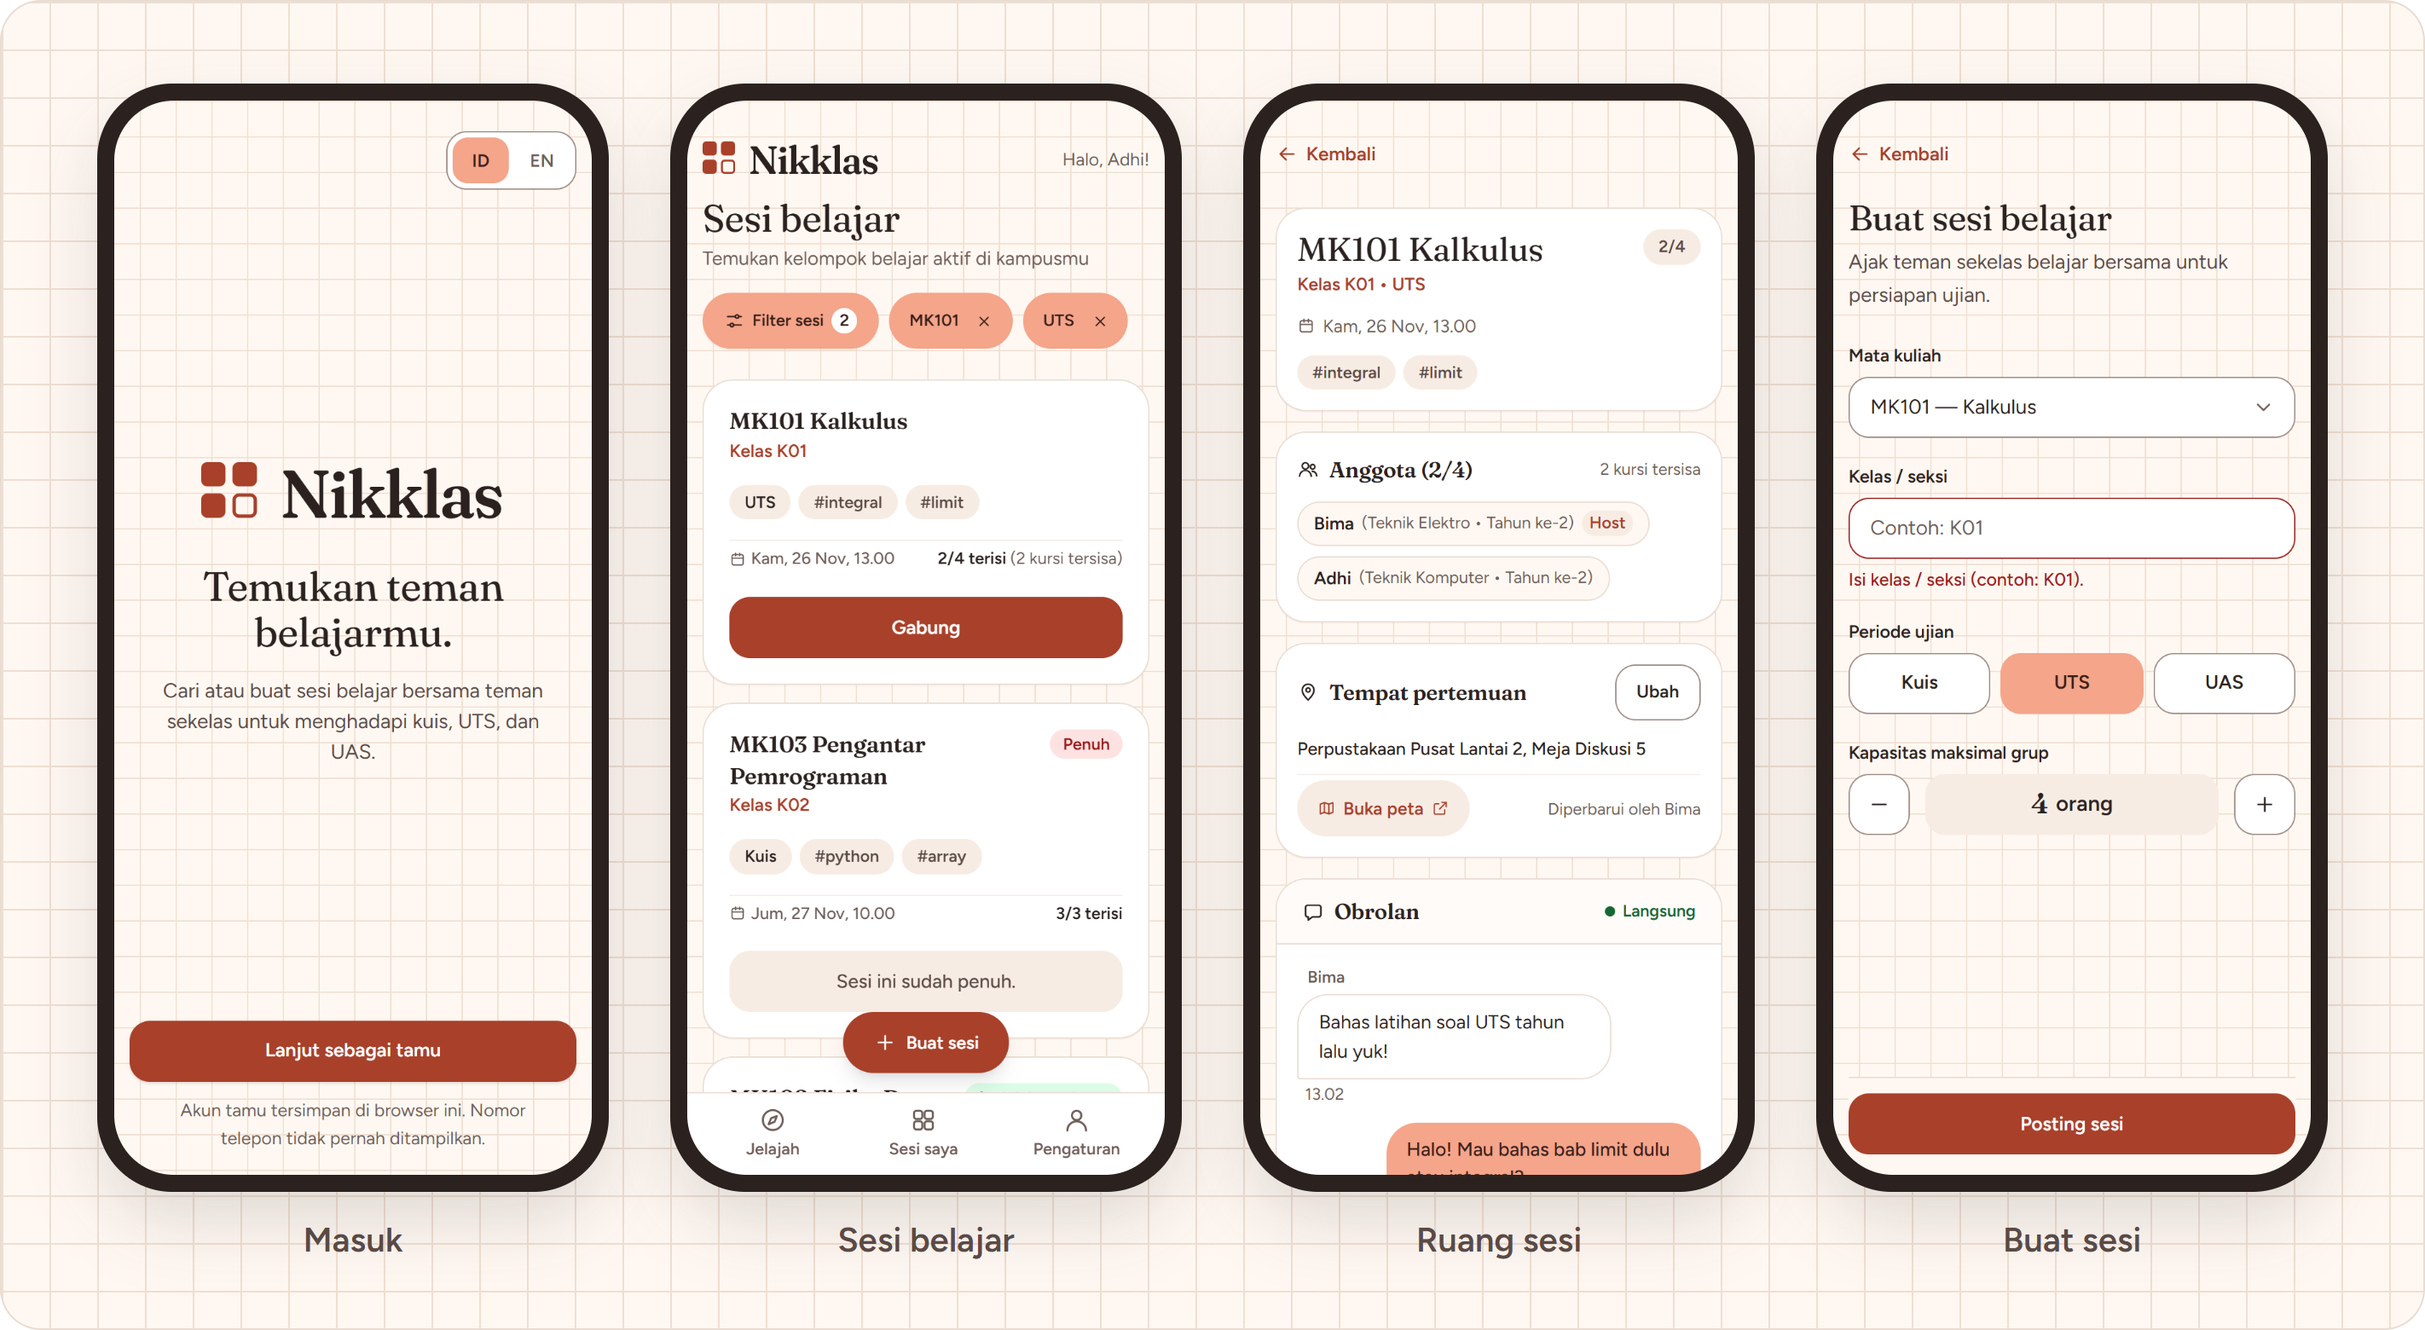
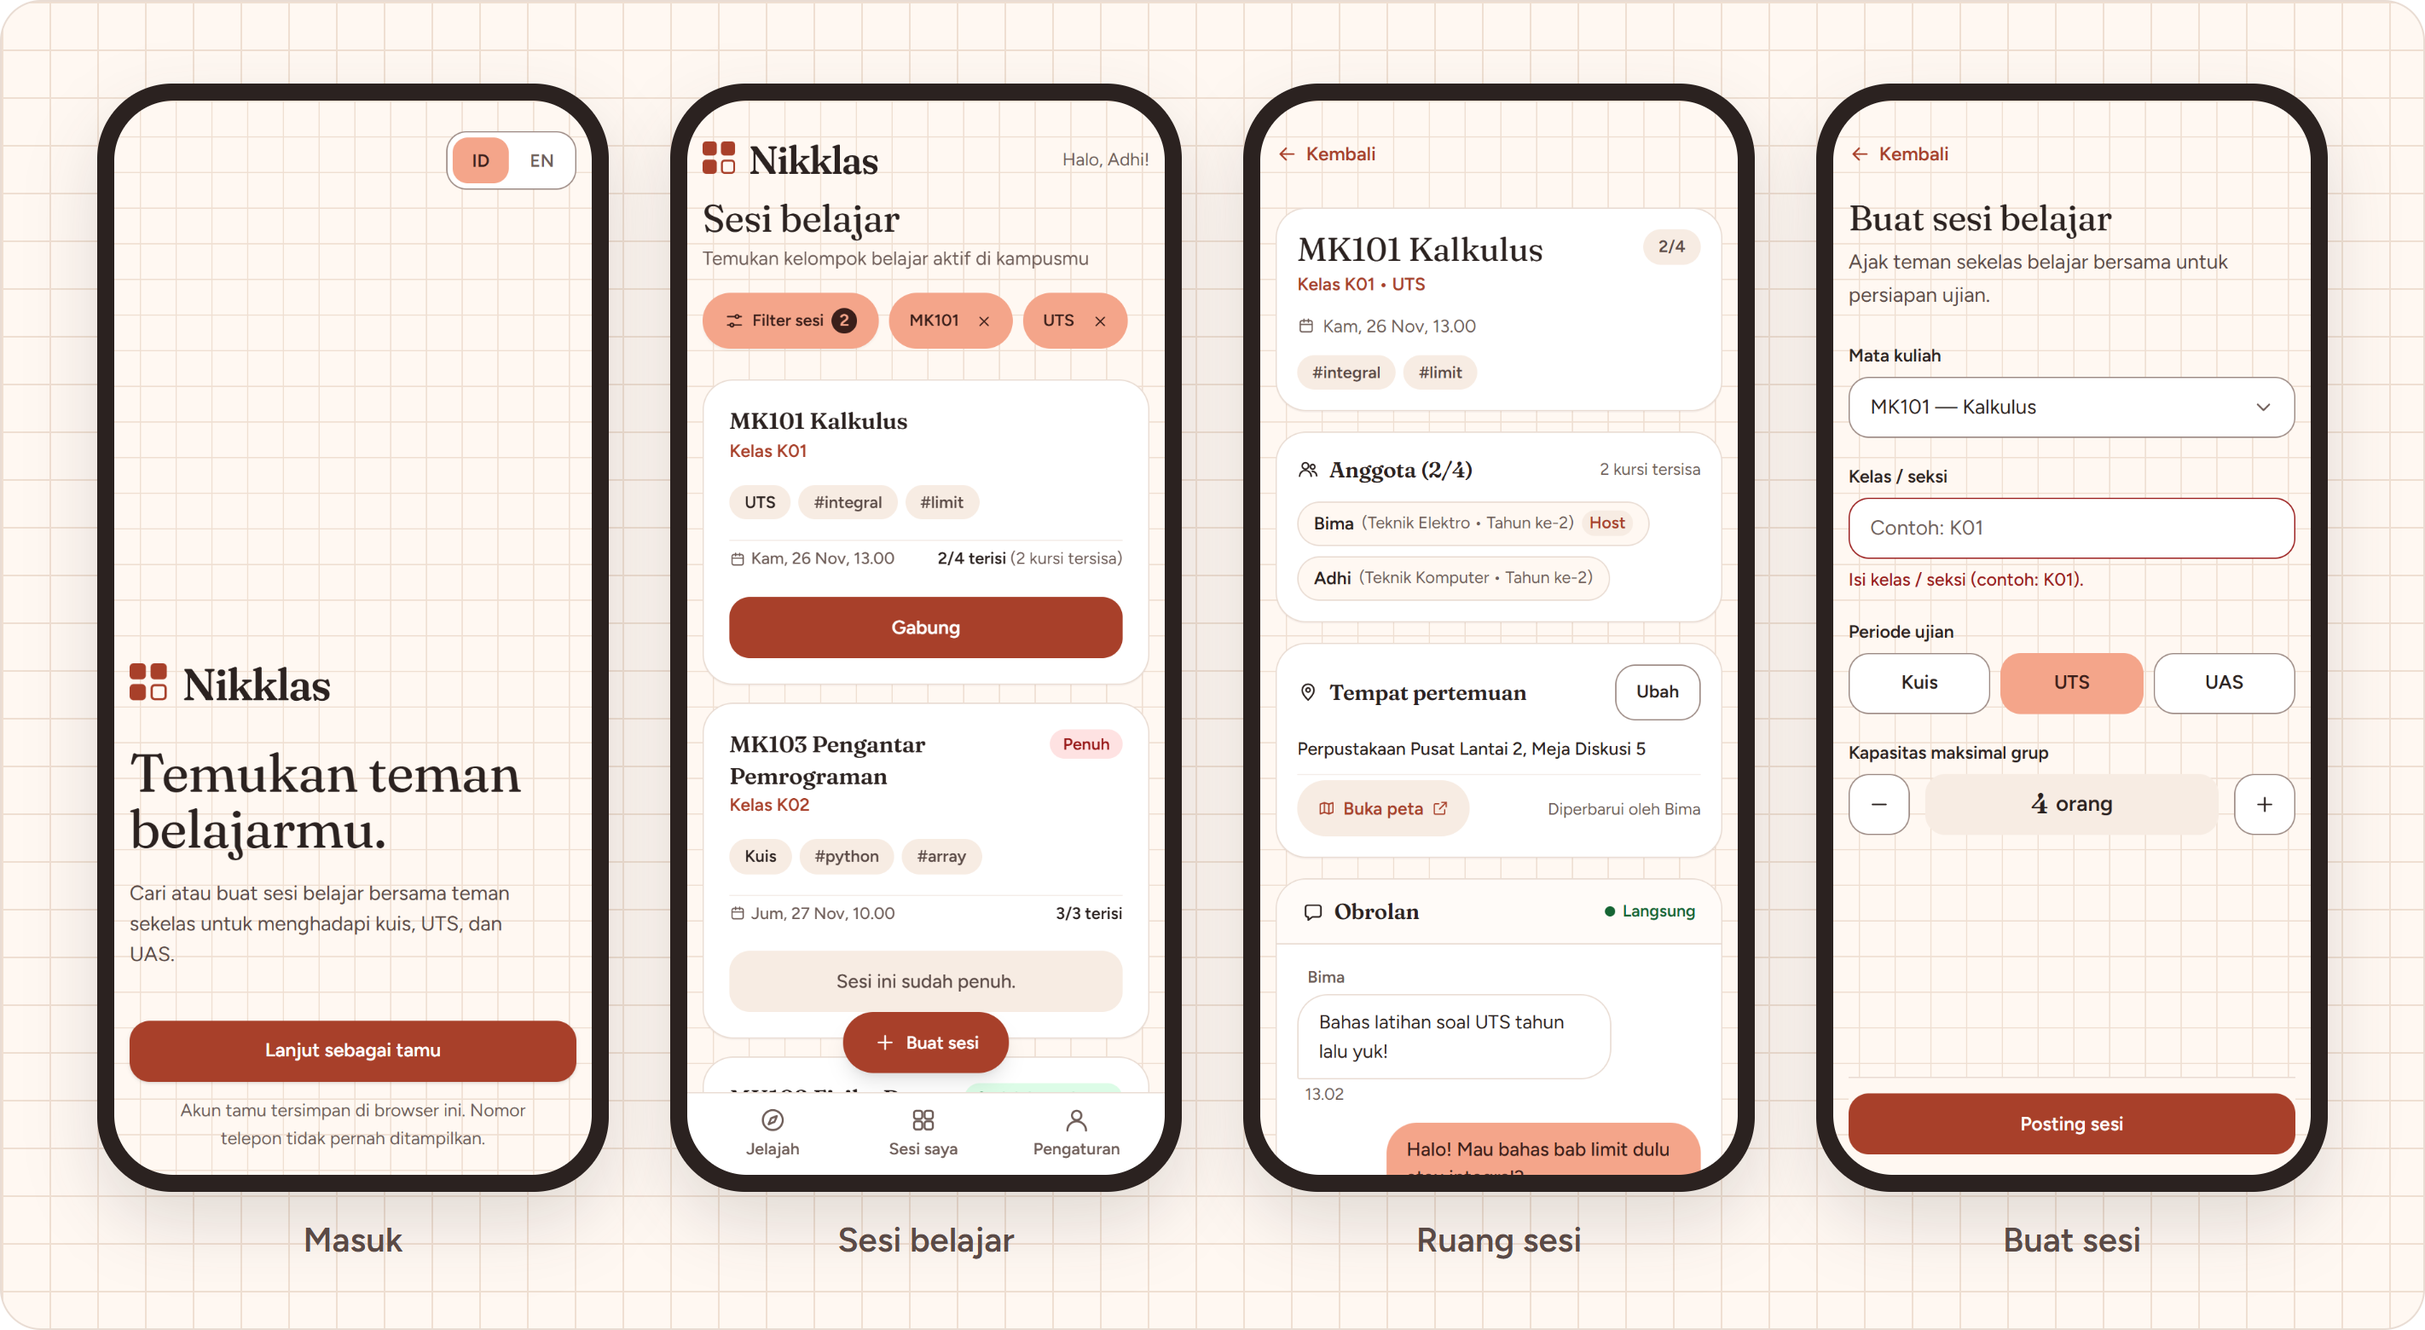
v1.2: dark mode and landing version 3
Dark mode in the Nikklas style (warm ink ground, lifted clay, peach selection), every text pair WCAG AA. Follows the device; Settings adds System / Light / Dark, saved per browser and applied before first paint. Landing version 3 chosen by Adhi: left-aligned, small logo, large slogan near the button. Docs: dark showcase in README and PROGRESS, dark tokens in docs/ui.md and docs/brand/identity.md. Checks: lint 0, tsc 0, next build passes.

Changed region(s): [[0.0309, 0.4308, 0.2166, 0.7077], [0.0619, 0.3385, 0.2166, 0.4], [0.3404, 0.2154, 0.3713, 0.2462]]

diff --git a/src/app/[locale]/settings/page.tsx b/src/app/[locale]/settings/page.tsx
@@ -5,6 +5,7 @@ import { useTranslations, useLocale } from 'next-intl';
 import { useRouter, usePathname, Link } from '@/i18n/navigation';
 import { getCurrentUser, getUserProfile, signOut } from '@/lib/auth';
 import { Profile } from '@/types/database';
+import { setTheme, useThemeChoice } from '@/lib/theme';
 import AppHeader from '@/components/AppHeader';
 import BottomNav from '@/components/BottomNav';
 
@@ -19,6 +20,7 @@ export default function SettingsPage() {
   const [isLoading, setIsLoading] = useState(true);
   const [profile, setProfile] = useState<Profile | null>(null);
   const [isSigningOut, setIsSigningOut] = useState(false);
+  const themeChoice = useThemeChoice();
 
   useEffect(() => {
     async function loadData() {
@@ -182,6 +184,30 @@ export default function SettingsPage() {
                 >
                   <span>English</span>
                 </button>
+              </div>
+            </section>
+
+
+            {/* Appearance: system, light or dark */}
+            <section className="bg-surface border border-border rounded-card p-5 shadow-card space-y-3">
+              <div>
+                <h3 className="font-display font-semibold text-[16px] text-text">{t('themeSection')}</h3>
+                <p className="text-[13px] text-muted">{t('themeDesc')}</p>
+              </div>
+              <div className="grid grid-cols-3 gap-2 pt-1" role="group" aria-label={t('themeSection')}>
+                {(['system', 'light', 'dark'] as const).map((choice) => (
+                  <button
+                    key={choice}
+                    type="button"
+                    onClick={() => setTheme(choice)}
+                    aria-pressed={themeChoice === choice}
+                    className={`h-12 rounded-control font-semibold text-[15px] border flex items-center justify-center ${
+                      themeChoice === choice ? 'bg-peach text-on-peach border-peach' : 'bg-surface text-text border-edge'
+                    }`}
+                  >
+                    {t(choice === 'system' ? 'themeSystem' : choice === 'light' ? 'themeLight' : 'themeDark')}
+                  </button>
+                ))}
               </div>
             </section>
 

diff --git a/src/app/globals.css b/src/app/globals.css
@@ -78,3 +78,38 @@ button:not(:disabled):active, a:active { transform: translateY(1px) scale(.985);
 button:disabled { cursor: not-allowed; }
 .safe-bottom { padding-bottom: max(env(safe-area-inset-bottom), 0px); }
 @media (prefers-reduced-motion: reduce) { button:active, a:active { transform: none; } }
+
+/* ---- Dark mode (brand v1.1 dark): warm ink ground, clay and peach accents, every pair WCAG AA ---- */
+:root { color-scheme: light; }
+:root[data-theme="dark"] {
+  color-scheme: dark;
+  --color-bg: #1C1615;
+  --color-surface: #251D1B;
+  --color-sand: #302623;
+  --color-border: #3A2E2B;
+  --color-edge: #8A7770;          /* 3.9:1 on surface */
+  --color-grid-line: #271F1D;
+  --color-text: #F6EEE8;          /* 15.6:1 */
+  --color-text-2: #DCCDC5;        /* 11.6:1 */
+  --color-muted: #B5A39C;         /* 7.4:1 */
+  --color-primary: #E57A5E;       /* clay, lifted for dark */
+  --color-on-primary: #1C1615;    /* 6.2:1 on clay */
+  --color-primary-text: #F29A80;  /* 8.3:1 */
+  --color-tag-bg: #302623;
+  --color-tag-text: #DCCDC5;
+  --color-success-text: #86EFAC;
+  --color-success-bg: #14301F;
+  --color-error-text: #FCA5A5;
+  --color-error-bg: #3A1A17;
+  --shadow-card: 0 1px 0 rgba(0, 0, 0, 0.25);
+}
+@media (prefers-color-scheme: dark) {
+  :root:not([data-theme="light"]) {
+    color-scheme: dark;
+    --color-bg: #1C1615; --color-surface: #251D1B; --color-sand: #302623; --color-border: #3A2E2B;
+    --color-edge: #8A7770; --color-grid-line: #271F1D; --color-text: #F6EEE8; --color-text-2: #DCCDC5;
+    --color-muted: #B5A39C; --color-primary: #E57A5E; --color-on-primary: #1C1615; --color-primary-text: #F29A80;
+    --color-tag-bg: #302623; --color-tag-text: #DCCDC5; --color-success-text: #86EFAC; --color-success-bg: #14301F;
+    --color-error-text: #FCA5A5; --color-error-bg: #3A1A17; --shadow-card: 0 1px 0 rgba(0, 0, 0, 0.25);
+  }
+}

diff --git a/docs/brand/tokens.css b/docs/brand/tokens.css
@@ -59,3 +59,38 @@ body {
 @media (prefers-reduced-motion: reduce) {
   *, *::before, *::after { transition-duration: 0.01ms !important; animation-duration: 0.01ms !important; }
 }
+
+/* ---- Dark mode (brand v1.1 dark): warm ink ground, clay and peach accents, every pair WCAG AA ---- */
+:root { color-scheme: light; }
+:root[data-theme="dark"] {
+  color-scheme: dark;
+  --color-bg: #1C1615;
+  --color-surface: #251D1B;
+  --color-sand: #302623;
+  --color-border: #3A2E2B;
+  --color-edge: #8A7770;          /* 3.9:1 on surface */
+  --color-grid-line: #271F1D;
+  --color-text: #F6EEE8;          /* 15.6:1 */
+  --color-text-2: #DCCDC5;        /* 11.6:1 */
+  --color-muted: #B5A39C;         /* 7.4:1 */
+  --color-primary: #E57A5E;       /* clay, lifted for dark */
+  --color-on-primary: #1C1615;    /* 6.2:1 on clay */
+  --color-primary-text: #F29A80;  /* 8.3:1 */
+  --color-tag-bg: #302623;
+  --color-tag-text: #DCCDC5;
+  --color-success-text: #86EFAC;
+  --color-success-bg: #14301F;
+  --color-error-text: #FCA5A5;
+  --color-error-bg: #3A1A17;
+  --shadow-card: 0 1px 0 rgba(0, 0, 0, 0.25);
+}
+@media (prefers-color-scheme: dark) {
+  :root:not([data-theme="light"]) {
+    color-scheme: dark;
+    --color-bg: #1C1615; --color-surface: #251D1B; --color-sand: #302623; --color-border: #3A2E2B;
+    --color-edge: #8A7770; --color-grid-line: #271F1D; --color-text: #F6EEE8; --color-text-2: #DCCDC5;
+    --color-muted: #B5A39C; --color-primary: #E57A5E; --color-on-primary: #1C1615; --color-primary-text: #F29A80;
+    --color-tag-bg: #302623; --color-tag-text: #DCCDC5; --color-success-text: #86EFAC; --color-success-bg: #14301F;
+    --color-error-text: #FCA5A5; --color-error-bg: #3A1A17; --shadow-card: 0 1px 0 rgba(0, 0, 0, 0.25);
+  }
+}

diff --git a/src/app/[locale]/layout.tsx b/src/app/[locale]/layout.tsx
@@ -5,6 +5,7 @@ import { routing } from '@/i18n/routing';
 import { Fraunces, Figtree } from 'next/font/google';
 import type { Metadata, Viewport } from 'next';
 import '../globals.css';
+import { THEME_BOOT } from '@/lib/theme';
 
 const fraunces = Fraunces({
   subsets: ['latin'],
@@ -20,7 +21,15 @@ const figtree = Figtree({
   display: 'swap',
 });
 
-export const viewport: Viewport = { themeColor: '#FFF8F2', width: 'device-width', initialScale: 1, viewportFit: 'cover' };
+export const viewport: Viewport = {
+  themeColor: [
+    { media: '(prefers-color-scheme: light)', color: '#FFF8F2' },
+    { media: '(prefers-color-scheme: dark)', color: '#1C1615' },
+  ],
+  width: 'device-width',
+  initialScale: 1,
+  viewportFit: 'cover',
+};
 
 export const metadata: Metadata = {
   title: 'Nikklas: find your study people',
@@ -47,7 +56,11 @@ export default async function LocaleLayout({
   const messages = await getMessages();
 
   return (
-    <html lang={locale} className={`${fraunces.variable} ${figtree.variable}`}>
+    <html lang={locale} className={`${fraunces.variable} ${figtree.variable}`} suppressHydrationWarning>
+      <head>
+        {/* Static script, no user input: applies the saved theme before first paint. */}
+        <script dangerouslySetInnerHTML={{ __html: THEME_BOOT }} />
+      </head>
       <body className="antialiased min-h-screen">
         <NextIntlClientProvider messages={messages}>
           <div className="min-h-screen flex flex-col items-center">

diff --git a/src/lib/theme.ts b/src/lib/theme.ts
@@ -1,0 +1,41 @@
+'use client';
+
+import { useSyncExternalStore } from 'react';
+
+// Theme choice: 'system' follows the device, 'light' and 'dark' are fixed. Stored in this browser only.
+export type ThemeChoice = 'system' | 'light' | 'dark';
+const KEY = 'nikklas-theme';
+
+export function getTheme(): ThemeChoice {
+  if (typeof window === 'undefined') return 'system';
+  const v = window.localStorage.getItem(KEY);
+  return v === 'light' || v === 'dark' ? v : 'system';
+}
+
+export function setTheme(choice: ThemeChoice) {
+  if (choice === 'system') {
+    window.localStorage.removeItem(KEY);
+    delete document.documentElement.dataset.theme;
+  } else {
+    window.localStorage.setItem(KEY, choice);
+    document.documentElement.dataset.theme = choice;
+  }
+  window.dispatchEvent(new Event(KEY));
+}
+
+function subscribe(onChange: () => void) {
+  window.addEventListener(KEY, onChange);
+  window.addEventListener('storage', onChange);
+  return () => {
+    window.removeEventListener(KEY, onChange);
+    window.removeEventListener('storage', onChange);
+  };
+}
+
+// The current choice; the server always renders 'system'.
+export function useThemeChoice(): ThemeChoice {
+  return useSyncExternalStore(subscribe, getTheme, () => 'system');
+}
+
+// Runs before paint (inlined in the layout) so a saved theme never flashes.
+export const THEME_BOOT = `try{var t=localStorage.getItem('${KEY}');if(t==='light'||t==='dark')document.documentElement.dataset.theme=t}catch(e){}`;

diff --git a/src/app/[locale]/page.tsx b/src/app/[locale]/page.tsx
@@ -75,11 +75,11 @@ export default function LandingPage() {
       </header>
 
       {/* Hero / Value Proposition */}
-      <section className="flex flex-col items-center text-center my-auto">
-        <h1 className="m-0 mb-8">
-          <Logo className="block h-12 w-auto" title={t('appName')} />
+      <section className="flex flex-col items-start text-left mt-auto mb-10">
+        <h1 className="m-0">
+          <Logo className="block h-8 w-auto" title={t('appName')} />
         </h1>
-        <h2 className="font-display font-normal text-[32px] leading-[1.12] text-text max-w-[300px]">
+        <h2 className="mt-8 font-display font-normal text-[42px] leading-[1.05] tracking-tight text-text">
           {t('tagline')}
         </h2>
         <p className="mt-4 text-text-2 text-[16px] leading-[1.5] max-w-[320px]">

diff --git a/src/components/FilterBar.tsx b/src/components/FilterBar.tsx
@@ -84,7 +84,7 @@ export default function FilterBar({
           <Icon name="sliders" className="text-[16px]" />
           <span>{t('title')}</span>
           {activeCount > 0 && (
-            <span className="min-w-5 h-5 px-1 rounded-full bg-surface text-on-peach text-[13px] flex items-center justify-center font-semibold" aria-label={t('activeCount', { count: activeCount })}>
+            <span className="min-w-5 h-5 px-1 rounded-full bg-on-peach text-peach text-[13px] flex items-center justify-center font-semibold" aria-label={t('activeCount', { count: activeCount })}>
               {activeCount}
             </span>
           )}

diff --git a/docs/ui.md b/docs/ui.md
@@ -4,6 +4,17 @@
 >
 > Also in v1.1: inputs use 16 px text (no iOS zoom), every tap target is at least 44 px, line icons replace emoji, bottom sheets close on Escape or a tap outside, and errors are linked to their fields with `aria-describedby`.
 
+> **v1.2.** Dark mode: the same token names get dark values under `:root[data-theme="dark"]` and `prefers-color-scheme: dark` (see `src/app/globals.css`). Components never hardcode colours, so they switch on their own.
+
+| Token | Light | Dark | Dark contrast |
+| --- | --- | --- | --- |
+| `bg` / `surface` / `sand` | #FFF8F2 / #FFFFFF / #F7ECE3 | #1C1615 / #251D1B / #302623 | |
+| `text` / `text-2` / `muted` | #2B2220 / #5A4A46 / #6E5D58 | #F6EEE8 / #DCCDC5 / #B5A39C | 15.6 / 11.6 / 7.4 : 1 |
+| `primary` / `on-primary` | #A8402A / #FFFFFF | #E57A5E / #1C1615 | 6.2 : 1 |
+| `primary-text` | #A8402A | #F29A80 | 8.3 : 1 |
+| `edge` | #9C8A84 | #8A7770 | 3.9 : 1 |
+| `peach` / `on-peach` | #F4A58A / #3B1F1A | unchanged | 7.6 : 1 |
+
 <p align="center"><img src="assets/palette.png" alt="Nikklas palette: clay, ink, peach, cream, sand, muted, edge" width="100%"></p>
 
 

diff --git a/PROGRESS.md b/PROGRESS.md
@@ -32,6 +32,13 @@ gantt
 | Languages | Every screen in Bahasa Indonesia and English | 0 to 6 |
 | v1.1 | Brand, UX and security pass (below) | v1.1 |
 
+## v1.2 (25 Nov 2026, evening)
+
+<p align="center"><img src="docs/assets/screens-dark.png" alt="The same four screens in dark mode: warm dark ground with clay and peach accents" width="100%"></p>
+
+- **Dark mode** in the Nikklas style: warm ink ground `#1C1615`, lifted clay `#E57A5E` with dark labels, peach for selection. Every text pair passes WCAG AA (body 15.6:1, muted 7.4:1, buttons 6.2:1). It follows the device by default; Settings has **System / Light / Dark**, saved in this browser and applied before the first paint, so there is no flash.
+- **Landing version 3**, chosen by Adhi from three options: left-aligned, a small logo, the slogan large near the button where the thumb is.
+
 ## v1.1 changelog (25 Nov 2026)
 
 <p align="center"><img src="docs/assets/screens.png" alt="Four screens after v1.1: entry, study sessions, session room, create session" width="100%"></p>

diff --git a/docs/brand/identity.md b/docs/brand/identity.md
@@ -39,6 +39,18 @@ competes with the student's own words.
 
 **Banned pairs:** clay on peach (3.09:1), white on peach (1.98:1), peach text on cream (1.88:1), muted on peach (3.14:1), hairline as an input border (1.34:1).
 
+## 03b Dark mode
+Same token names, dark values. The ground is warm ink, never pure black; clay is lifted to #E57A5E so a dark label reads on it (6.2:1); peach and its label stay the same.
+
+| Token | Dark | Contrast |
+| --- | --- | --- |
+| bg / surface / sand | #1C1615 / #251D1B / #302623 | |
+| text / text-2 / muted | #F6EEE8 / #DCCDC5 / #B5A39C | 15.6 / 11.6 / 7.4 : 1 on bg |
+| primary / on-primary | #E57A5E / #1C1615 | 6.2 : 1 |
+| primary-text | #F29A80 | 8.3 : 1 on bg |
+| edge | #8A7770 | 3.9 : 1 on surface |
+| success / error | #86EFAC on #14301F · #FCA5A5 on #3A1A17 | 10.2 · 8.3 : 1 |
+
 ## 04 Typography
 | Family | Cut | Used for |
 | --- | --- | --- |

diff --git a/README.md b/README.md
@@ -22,6 +22,10 @@ Built by team **Satu Orang Satu Ubin** for STACK 2026 by GDGoC ITB, Case 1: Smar
 
 <p align="center"><img src="docs/assets/screens.png" alt="Nikklas screens: entry, study sessions feed, session room with members, meeting place and chat, and the create-session form" width="100%"></p>
 
+<p align="center"><img src="docs/assets/screens-dark.png" alt="The same four screens in dark mode: warm dark ground with clay and peach accents" width="100%"></p>
+
+<p align="center"><sub>Light and dark, both WCAG 2.2 AA. Dark follows the device, or pick it in Settings.</sub></p>
+
 ## How it works
 
 ```mermaid
